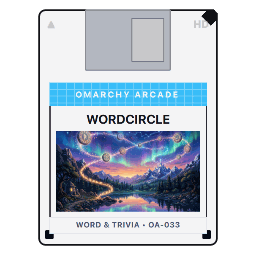
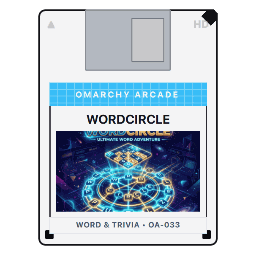
Fix drag hit detection across center and update disk art with accurate WordCircle theme

Changed region(s): [[0.2188, 0.5, 0.7812, 0.8438]]

diff --git a/games/wordcircle/main.qml b/games/wordcircle/main.qml
@@ -973,6 +973,7 @@ Window {
                             id: centerShuffleMouse
                             anchors.fill: parent
                             hoverEnabled: true
+                            enabled: !root.isDragging
                             cursorShape: Qt.PointingHandCursor
                             onClicked: {
                                 Engine.shuffleLetters();
@@ -990,7 +991,7 @@ Window {
                         function checkHit(mouseX, mouseY) {
                             var letters = Engine.circleLetters || [];
                             var count = letters.length;
-                            var hitRadius = wheelContainer.nodeRadius * 1.3;
+                            var hitRadius = wheelContainer.nodeRadius * 1.6;
 
                             for (var i = 0; i < count; i++) {
                                 var pos = wheelContainer.getNodePosition(i, count);
